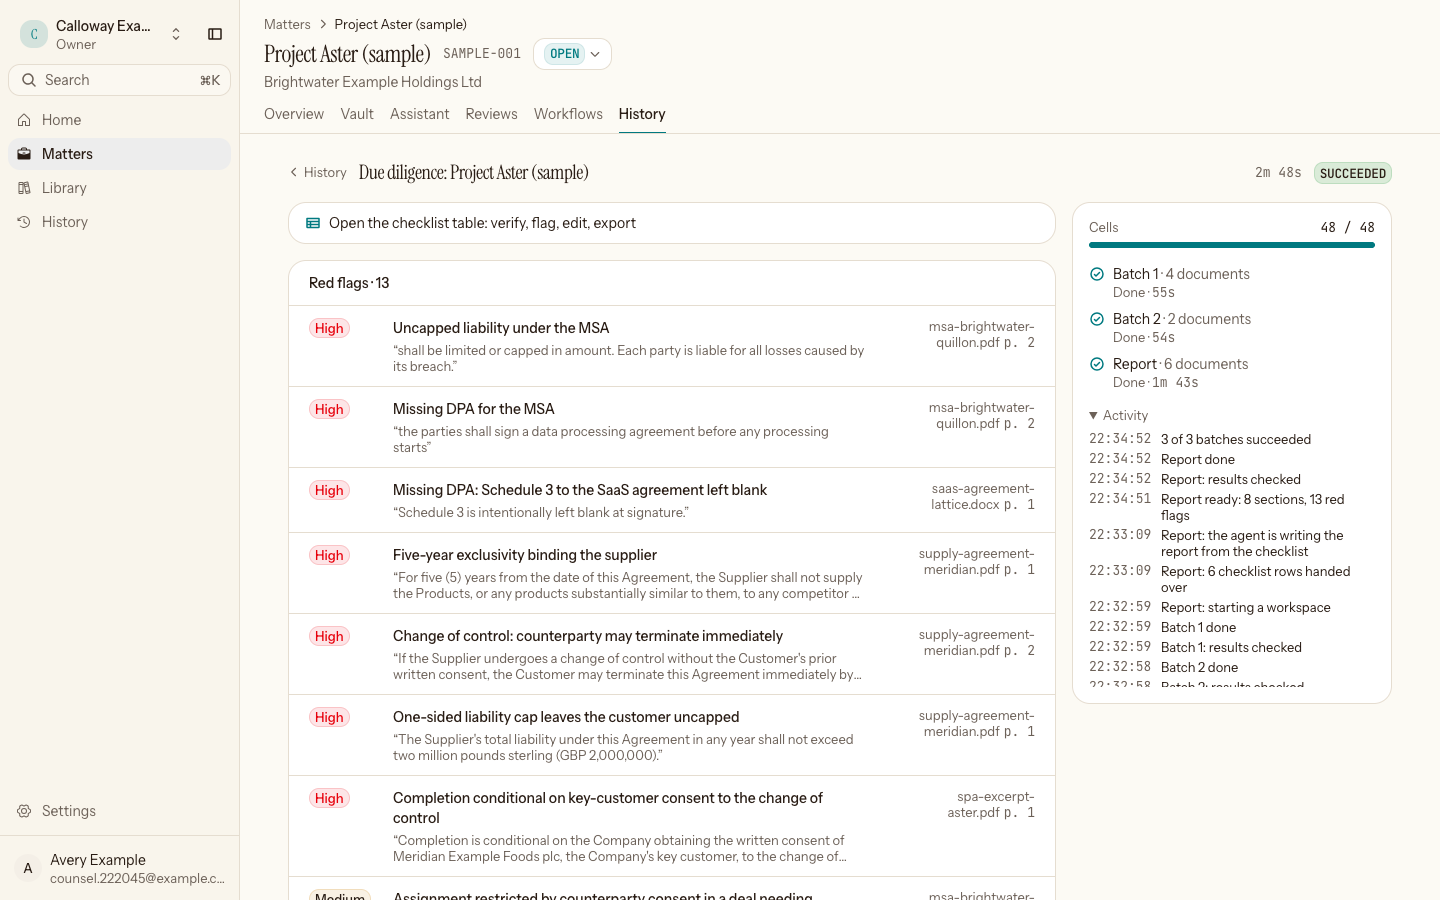
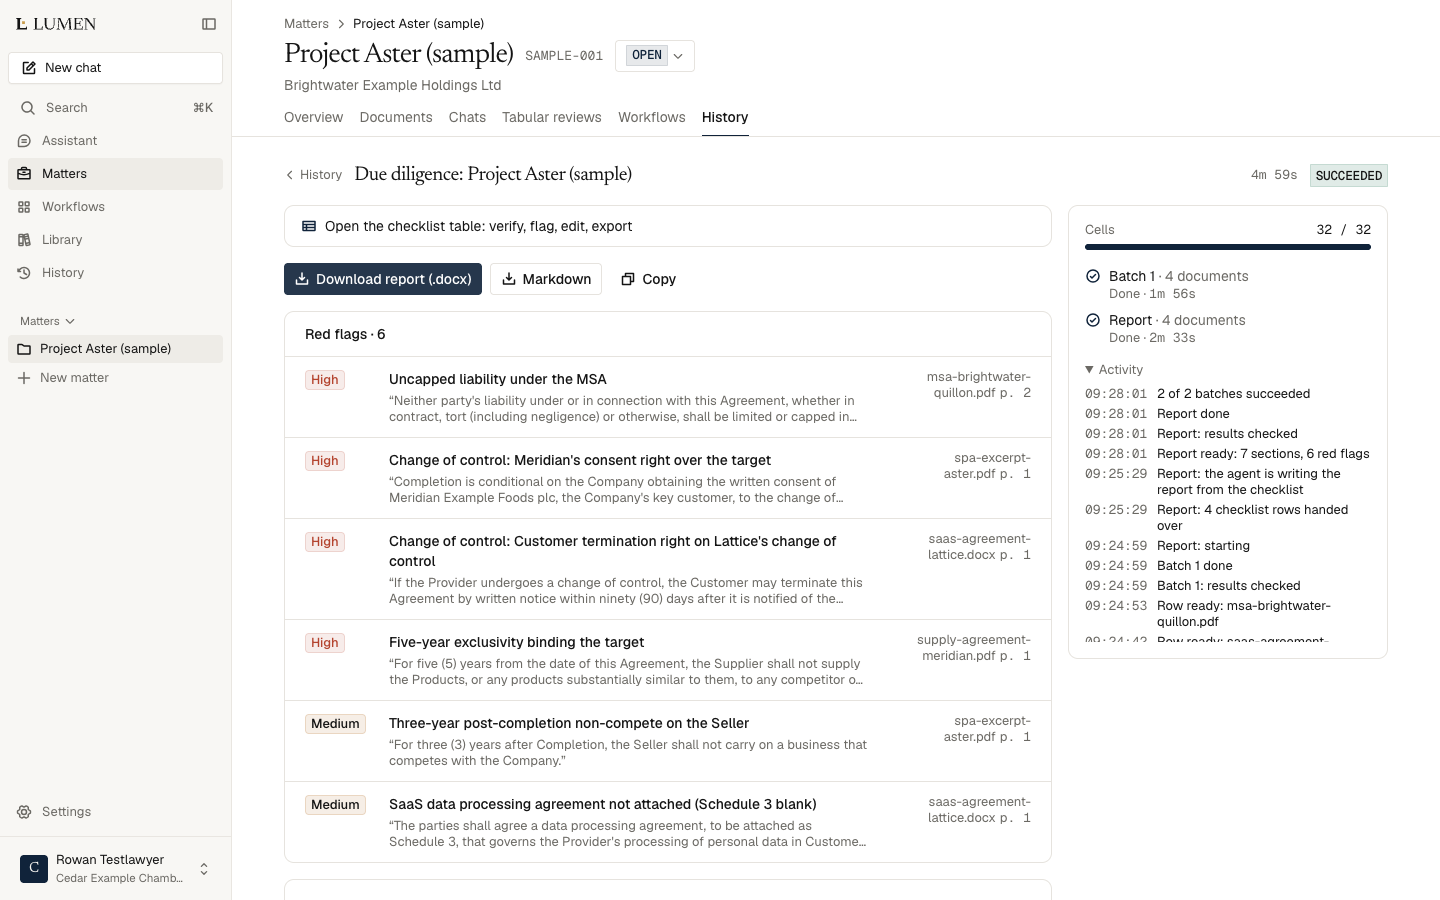
docs(lumen): re-record tour.gif and re-capture 8 README screenshots on the current build (rebrand, tab names, kit 1.3.3); alt texts match (RQ3-1)

diff --git a/apps/white-label/lumen/README.md b/apps/white-label/lumen/README.md
@@ -20,7 +20,7 @@
 </p>
 
 <p align="center">
-  <img src="public/screenshots/tour.gif" width="900" alt="Lumen in 15 seconds: open a matter, search the vault, open a cited answer, inspect a review cell, read a contract review" />
+  <img src="public/screenshots/tour.gif" width="900" alt="Lumen in 15 seconds: open a matter, search the vault, open a cited answer, inspect a review cell, read a contract review and a due-diligence report" />
 </p>
 
 Lumen is a fictional legal-AI product, built as the reference for one question: what does it take
@@ -101,7 +101,7 @@ Excel (typed cells, a Citations sheet) or CSV.
 | **Ask across the vault** | One cited answer over every document, or "The documents in this matter do not address this." |
 | **The firm's own** | `/app/workflows`: an **assistant** workflow is instructions a conversation starts with, a **tabular** workflow is a column set a review starts with. Private, or shared with the firm (the author and admins edit). Run one with **Use**, or type `/` in the home composer. |
 
-<p align="center"><img src="public/screenshots/contract-review.png" width="860" alt="Contract review of a mutual NDA against the firm playbook: 2 High, 2 Medium; the 7-year confidentiality term with its redline and verified quote" /></p>
+<p align="center"><img src="public/screenshots/contract-review.png" width="860" alt="Contract review of a mutual NDA against the firm playbook: 3 High, 5 Medium, 3 Low; the 5-year confidentiality term with its redline and verified quote" /></p>
 
 ### The firm's back office
 

diff --git a/apps/white-label/README.md b/apps/white-label/README.md
@@ -26,7 +26,7 @@ Kortix keeps each firm's sessions and files away from every other firm. Lumen in
 role prompts, skills and tools there once and runs multi-step work over Kortix sessions from its
 own Convex engine.
 
-<p align="center"><img src="lumen/public/screenshots/tour.gif" width="860" alt="Lumen in 15 seconds: a matter, a vault search, a cited answer, a review cell, a contract review" /></p>
+<p align="center"><img src="lumen/public/screenshots/tour.gif" width="860" alt="Lumen in 15 seconds: a matter, a vault search, a cited answer, a review cell, a contract review, a due-diligence report" /></p>
 
 | | |
 | --- | --- |
